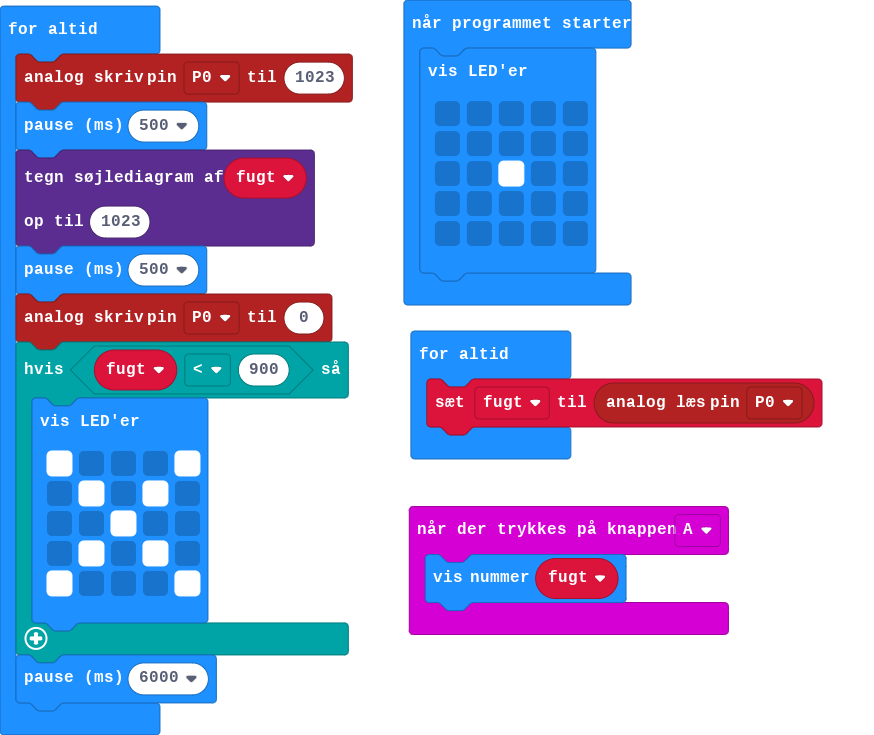
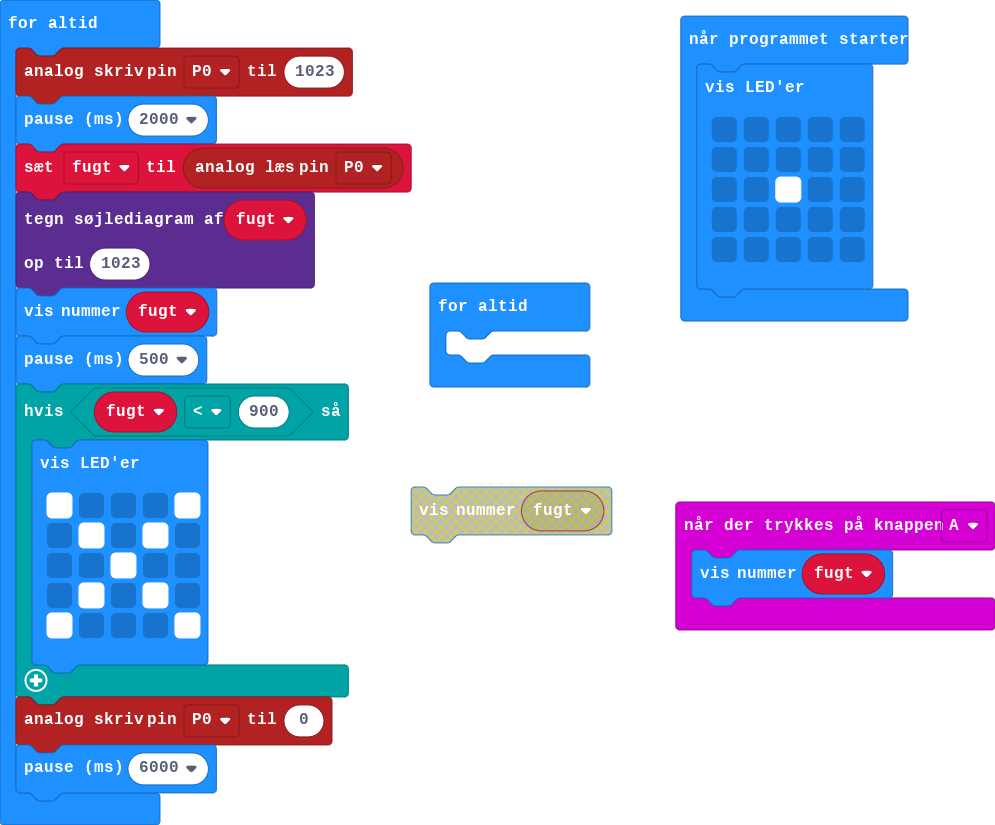
Opdater main.blocks, main.ts

diff --git a/main.ts b/main.ts
@@ -11,13 +11,14 @@ basic.showLeds(`
     `)
 basic.forever(function () {
     pins.analogWritePin(AnalogPin.P0, 1023)
-    basic.pause(500)
+    basic.pause(2000)
+    fugt = pins.analogReadPin(AnalogPin.P0)
     led.plotBarGraph(
     fugt,
     1023
     )
+    basic.showNumber(fugt)
     basic.pause(500)
-    pins.analogWritePin(AnalogPin.P0, 0)
     if (fugt < 900) {
         basic.showLeds(`
             # . . . #
@@ -27,8 +28,9 @@ basic.forever(function () {
             # . . . #
             `)
     }
+    pins.analogWritePin(AnalogPin.P0, 0)
     basic.pause(6000)
 })
 basic.forever(function () {
-    fugt = pins.analogReadPin(AnalogPin.P0)
+	
 })
